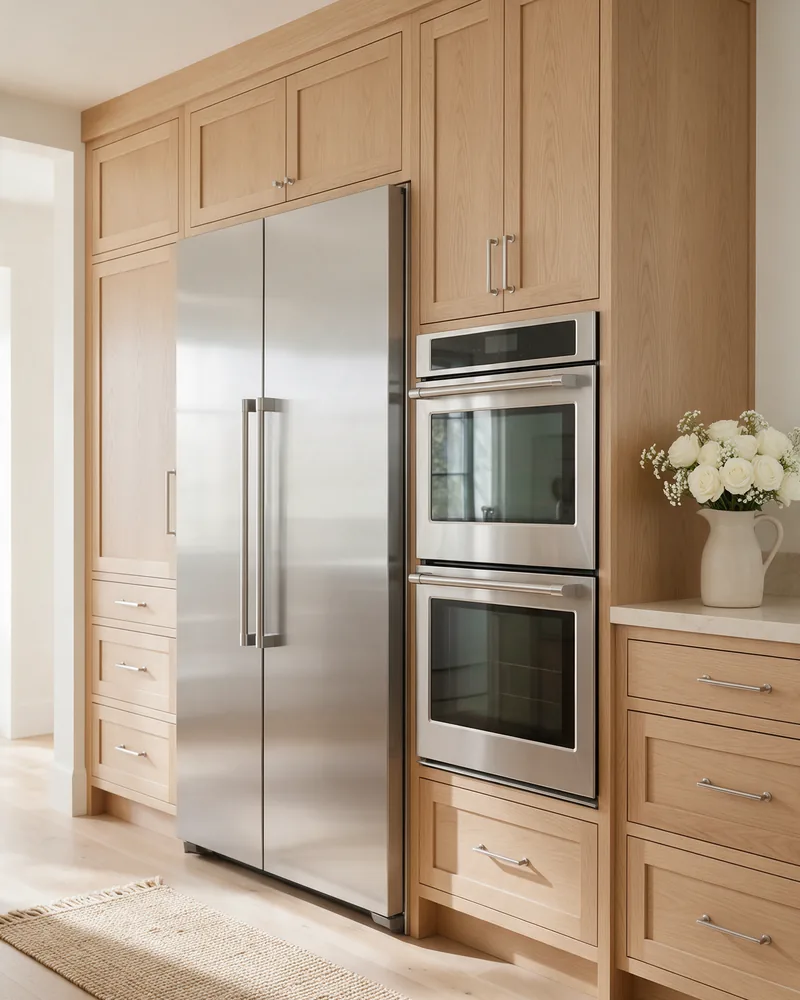
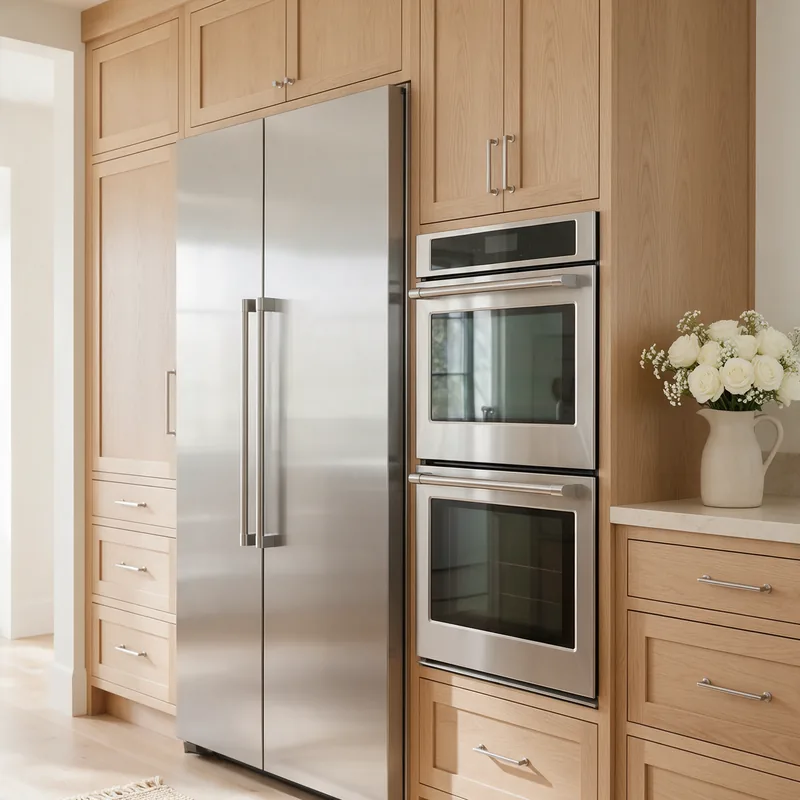
Home tiles: square photos (20% shorter than 4:5); 'Cabinet hardware' tile is now 'Handles' and links to the handles subcategory

diff --git a/vibes/soul/sections/category-carousel/index.tsx b/vibes/soul/sections/category-carousel/index.tsx
@@ -64,7 +64,7 @@ export function CategoryCarousel({
                 className="group flex h-full flex-col overflow-hidden rounded-3xl border border-contrast-100 bg-white transition-[transform,box-shadow] duration-300 ease-out hover:-translate-y-1 hover:shadow-[0_24px_48px_-28px_rgb(0_0_0/0.3)] focus-visible:outline-0 focus-visible:ring-2 focus-visible:ring-primary"
                 href={category.href}
               >
-                <div className="relative aspect-[4/5] overflow-hidden bg-contrast-100">
+                <div className="relative aspect-square overflow-hidden bg-contrast-100">
                   {category.image ? (
                     <Image
                       alt={category.image.alt}

diff --git a/lib/home/home-content.ts b/lib/home/home-content.ts
@@ -118,8 +118,8 @@ const CATEGORY_BASE: Array<{
     ),
   },
   {
-    name: 'Cabinet hardware',
-    href: '/cabinet-hardware',
+    name: 'Handles',
+    href: '/cabinet-hardware/handles-knobs',
     homeowner: 'Every finish we make doors in',
     pro: 'Ships next day',
     image: tile('handles', 'A drawer cabinet with brass pulls against white tile'),
